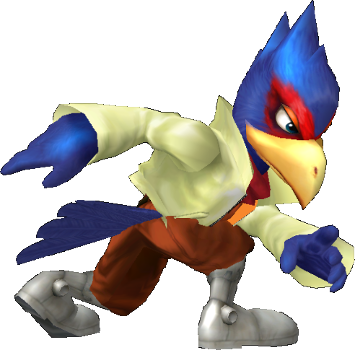
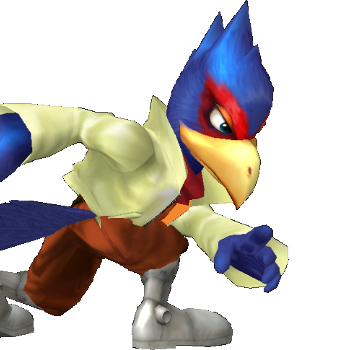
Making images more uniform. Changed Canvas size. Added opacity to round text.

diff --git a/server/public/scripts/canvasImpl.js b/server/public/scripts/canvasImpl.js
@@ -141,16 +141,17 @@ function rewriteCanvas(){
 	if(tournamentRound){
 		
 		//Draw rectangle container
+		ctx.globalAlpha=0.7;
 		ctx.fillStyle = "grey";
 		ctx.fillRect(0, canvas.height - 80, canvas.width, canvas.height);
-		
+		ctx.globalAlpha=1.0;
 
 		if(tournamentRoundColor)
 			ctx.fillStyle = tournamentRoundColor;
 		else ctx.fillStyle = 'white';
 
 		//ctx.font='bold ' + String(tournamentRountFontSz)  + ' pt Impact';
-		ctx.font = 'bold 50pt Georgia';
+		ctx.font = 'bold 50pt Arial';
 		ctx.textAlign='center';
 		x = canvas.width/2
 		y = canvas.height - 50 * (1/2) + 10;
@@ -159,18 +160,13 @@ function rewriteCanvas(){
 };
 
 /** RETURN URL TO IMAGE **/
-function getImagePath(char, side, isSingles){
-	if(isSingles){
-		if(side === 'right')
-			return 'images/Melee/Thumbs/'+char+'Reverse.png'	
-		return '/images/Melee/Thumbs/'+char+'.png';
-	}
-	else{
-		if(side === 'right')
-			return 'images/Melee/Thumbs/'+char+'ReverseDoubles.png'
-		return '/images/Melee/Thumbs/'+char+'Doubles.png'
-	}
+function getImagePath(char, side){
+	if(side === 'right')
+		return 'images/Melee/Thumbs/'+char+'Reverse.png'	
+	return '/images/Melee/Thumbs/'+char+'.png';
+	
 }
+
 function getNameplatesPath(plate){
 	var path = '/images/nameplates/'
 	return path+plate+'.png';
@@ -269,35 +265,29 @@ function drawCharacter(imgPath, charNumber){
 	var img = new Image();
 	var width = 0, height = 0;
 	var yDiff = 0, xDiff = 0;
+	var enhance = 1.15;
 	var reduce = .9;
 	img.src = imgPath;
-	img.onload = function(){	
+	img.onload = function(){
+		height = img.height;
+		width = img.width;
+		
+		if(enhance){
+			height *= enhance;
+			width *= enhance;
+		}
+		
 		var coords = getCharacterCoordinates(canvas, img, charNumber);
 		if(charNumber === 1)
-			if(!isSingles()){
-				width = img.width * reduce;
-				height = img.height * reduce;
-				yDiff = difference(img.height, height);
-				ctx.drawImage(img, coords.x, coords.y + yDiff, width, height);
-			}
-			else
-				ctx.drawImage(img, coords.x, coords.y);				
+			ctx.drawImage(img, coords.x, coords.y, width, height);				
 		else if(charNumber === 2){
-			if(!isSingles()){
-				width = img.width * reduce;
-				height = img.height * reduce;
-				xDiff = difference(img.width, width);
-				yDiff = difference(img.height, height);
-				ctx.drawImage(img, coords.x + xDiff, coords.y + yDiff, width, height);
-			}
-			else
-				//ctx.scale(-1, 1);
-				ctx.drawImage(img, coords.x, coords.y);
+			//ctx.scale(-1, 1);
+			ctx.drawImage(img, coords.x, coords.y, width, height);
 		}
 		else if(charNumber === 3)
-			ctx.drawImage(img, coords.x, coords.y);				
+			ctx.drawImage(img, coords.x, coords.y, width, height);				
 		else if(charNumber === 4)
-			ctx.drawImage(img, coords.x, coords.y);
+			ctx.drawImage(img, coords.x, coords.y, width, height);
 	}
 };
 

diff --git a/server/public/scripts/config.js b/server/public/scripts/config.js
@@ -1,21 +1,30 @@
 var canvas = null;
-var p1x = 0; var p1y = 50;
+var p1x = null; var p1y = 50;
 var p2x = null; var p2y = 50;
-var p3x = 25; var p3y = 50;
+var p3x = null; var p3y = 50;
 var p4x = null; var p4y = 50;
+
+var xOffset = 40;
+var yOffset = 15;
 
 var getCharacterCoordinates = function(canvas, image, characterNumber){
 	this.canvas = canvas;
 	switch(characterNumber){
 	case 1:
+		p1x = -1 * xOffset;
+		p1y = canvas.height - image.height + yOffset;
 		return {x:p1x, y:p1y};
 	case 2:
-		p2x = canvas.width - image.width;
+		p2x = canvas.width - image.width + xOffset;
+		p2y = canvas.height - image.height + yOffset;
 		return {x:p2x, y:p2y};
 	case 3:
+		p3x = canvas.width + 25;
+		p3y = canvas.height - image.height + yOffset;
 		return {x:p3x, y:p3y};
 	case 4:
-		p4x = canvas.width - image.width - 20;
+		p4x = canvas.width - image.width - xOffset;
+		p4y = canvas.height - image.height + yOffset;
 		return {x:p4x, y:p4y};
 	default:
 		throw new Exception('charcter numer beyone 4');

diff --git a/client/index.html b/client/index.html
@@ -129,7 +129,7 @@
 					<h2>Preview</h2>
 				</span>
 				<span>
-					<canvas id='previewCanvas' width='889' height='500'>
+					<canvas id='previewCanvas' width='711' height='400'>
 						
 					</canvas>
 				</span>
